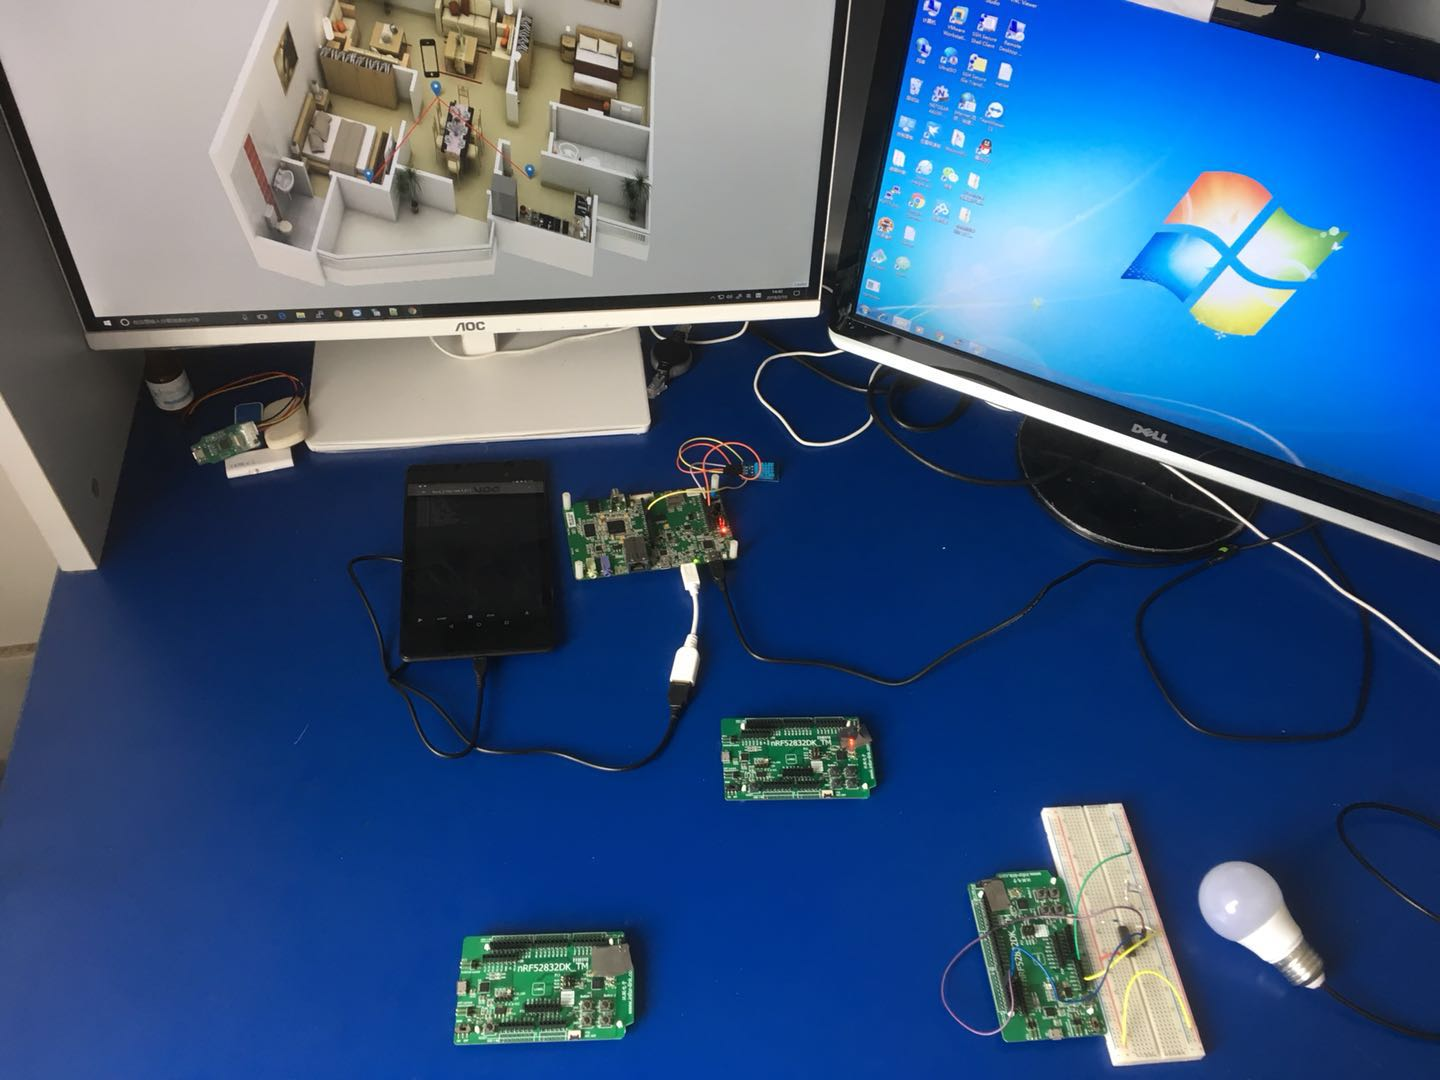
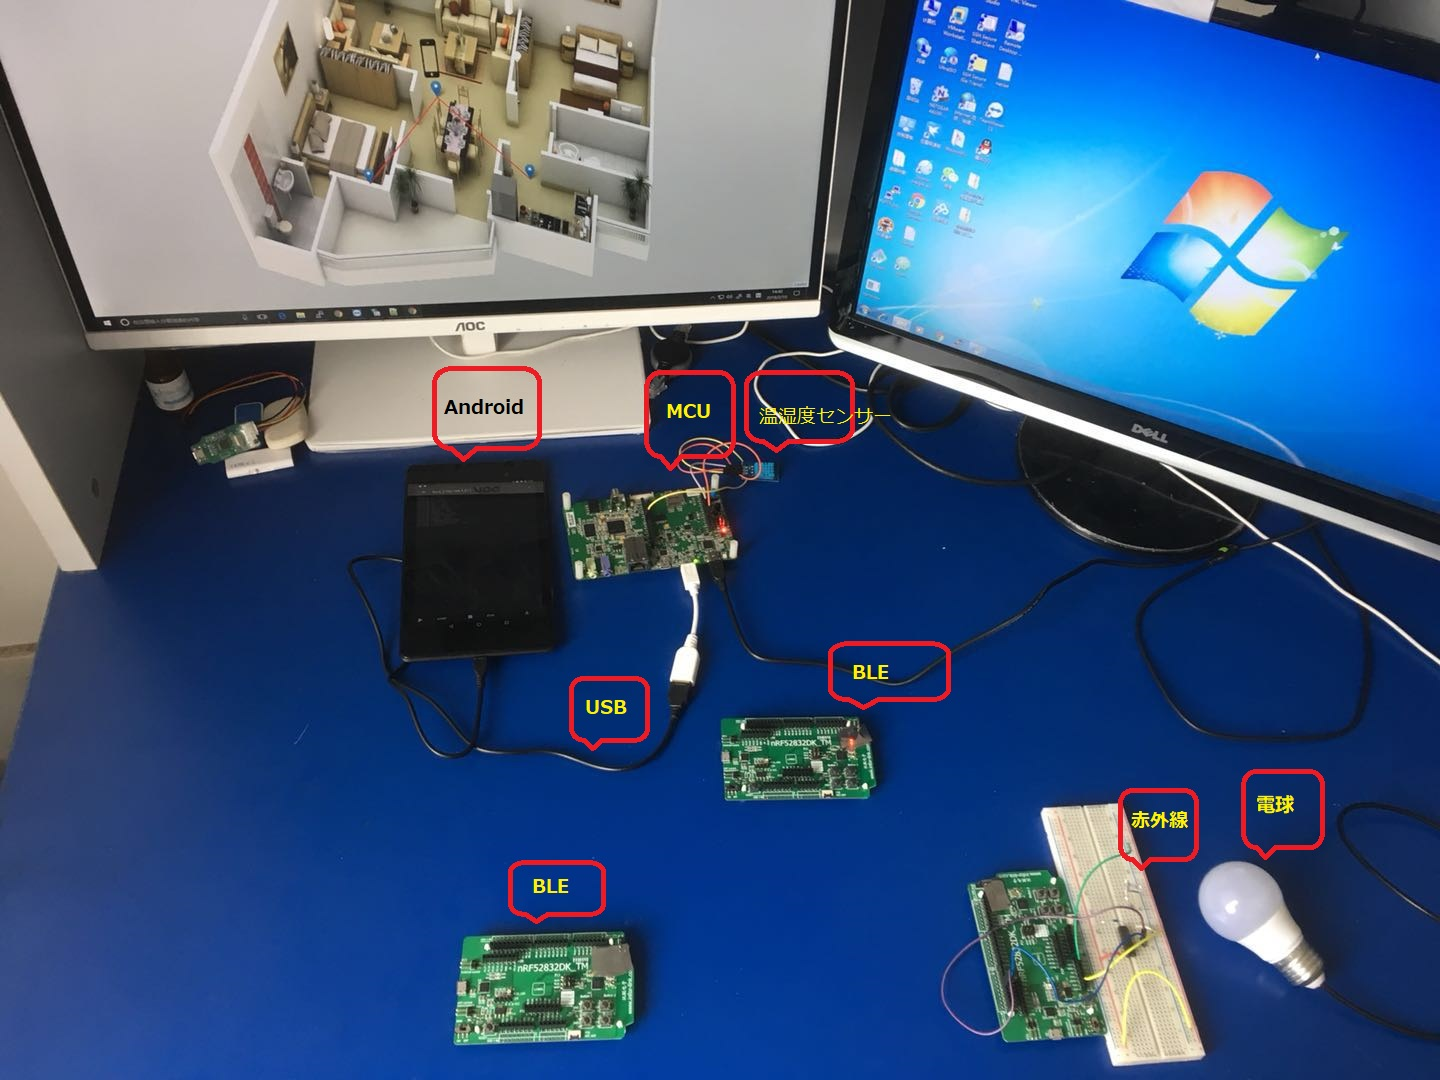
add README.md

diff --git a/README.md b/README.md
@@ -1,0 +1,41 @@
+#<center>安くて多機能なスマートホーム </center >
+------
+##背景
+今のところ、人工知能の高速な発展に従って、色々な知的な装置は家庭にも入っています。例えば、Google Home、Amazon Echoなどのクラウドベースの音声AIアシスタントを備えるスマートスピーカー。しかし、これらの製品には値段の高さ、音声しか交流手段のない、インターネットに依頼する、古い電器が利用できないという欠点があります。Google Homeを命令してエアコンをコントロールするには特定のエアコンが必要となる。そこに、私たちはそれらの製品に啓発され、廉価かつ多機能のソリューションを提出しています。
+##課題
+（1）	Android OSを搭載する古い端末（使用者自分で提供する）をMCUに繋げてMCUから電力を獲得させる。データがUSBケーブルを通じて二つの間に流れる。そこにグーグルのAOA（ANDROID OPEN ACCESSORY）プロトコルは不可欠である。
+
+（2）	多数のBLE（bluetooth low energy）モジュールを二分木のデータ構造に組み合わせ、Android端末はこのシステムを制御する。これでBLEモジュールは家の隅まで伸びることがでます。BLEモジュールは赤外線リモートコントローラや温湿度計などの役割を果たせる。
+
+（3）	Android端末は比較的に高性能のハードウェアを持っていますから、知能監視カメラ、音声AIアシスタント、ウェブサーバーなどの仕事を担わせることが可能です。
+##概要
+（１）	システム概念図
+
+![alt](https://github.com/cxq1915495507/cheap_iot_home/blob/master/imgs/system_concept.jpg?raw=true)
+
+######<center>図１</center>
+上の図のように、ユーザーの不用品となったAndroid端末はこのシステムの中心になる。まずはグーグルAOAプロトコルでMCUと繋がって周辺装置と接続することができます。例として、MCUにモーターを付けて端末を動ける監視カメラにする。こうして、端末は家に飼っている猫ちゃんの行動をトラッキングできる。そして端末はMCUから電力をもらいますので、電気切れの心配は無用です。
+
+Android端末は多数のBLEからなる二分木構造ネットワークを制御して家の隅までコントロール信号を発信する。このBLEネットワークは簡単な仕組みの上で高い安定性を持っている。その原理は下の図で説明されています。
+
+![alt](https://github.com/cxq1915495507/cheap_iot_home/blob/master/imgs/bin_tree.jpg?raw=true)
+
+######<center>図2</center>
+例えAndroid端末は0x42というロジックアドレスをもつBLEモジュールに送信したいとしたら。データパケットのアドレスに0x42が書かれ、パケットが緑色の線を沿って伝わる。パケットは0x00に到着する時、アドレスの［bit1,bit0］はゼロではないことで下に転送される。方向は［bit1,bit0］が決めるビットによって選ばれる。そのビットは0であれば左に、1であれば右に、パケットが運ばれる。［bit1,bit0］がゼロになるときまでパケット流れつつである。最後に、パケットが0x42のモジュールにたどり着く。逆に、パケットは下から上に伝わると、青い線に従う。
+
+これからAndroid端末におけるウェブサーバーを紹介します。みんなのご存知の通り、Android OSはlinuxのカーネルに基づいて開発されたオペレーティングシステムです。私たちの実験結果によりますと、ほとんどのlinuxソフトウェアがAndroidで操作できます。便利の為、私たちは直接linux deployでubuntuをAndroid端末にインストールした。Google Playにも色んなサーバーがあります。後ではウェブサーバーを私たちのアプリに集積する。
+##実際の効果
+まずはウェブにあるページをご覧ください。下の図のように、Android端末は直接にMCUから温湿度を獲得して画面に表現している。そしてAndroid端末は根としてのBLEモジュールと繋がってネットワーク全体を制御する。
+![alt](https://github.com/cxq1915495507/cheap_iot_home/blob/master/imgs/web_deep2.jpg?raw=true)
+######<center>図3</center>
+それに加えて、図４のような形にも変更できます。
+![alt](https://github.com/cxq1915495507/cheap_iot_home/blob/master/imgs/web_deep3.jpg?raw=true)
+######<center>図4</center>
+実際のモジュールの分布は図５に見てください。
+![alt](https://github.com/cxq1915495507/cheap_iot_home/blob/master/imgs/whole_system.jpg?raw=true)
+######<center>図5</center>
+実験によりますと、二つのBLEモジュールの通信距離は障害物なしでは50メートルぐらい。
+##コスト
+このシステムの一番の特徴はAndroid端末がユーザーに提供されることによってコストの低さです。量産にはBLEモジュール（nrf52832）は約300円、MCU（stm32f401re）は約200円。MCU一つとBLE四つの場合ではコストは2000円以内になる可能性があります。
+##TODO
+今展示されたプロジェクトは単純なデモに過ぎない。後の仕事はこのシステムに「いのち」と「知能」を入れることを目指しています。今はAndroid端末にtensor flowのデモは一秒以内で画面にある多様なものをトラッキングしながら区別できる。人工知能が流行っている時代にあって、その成果を利用してもっと面白い生活を向かいましょう。
